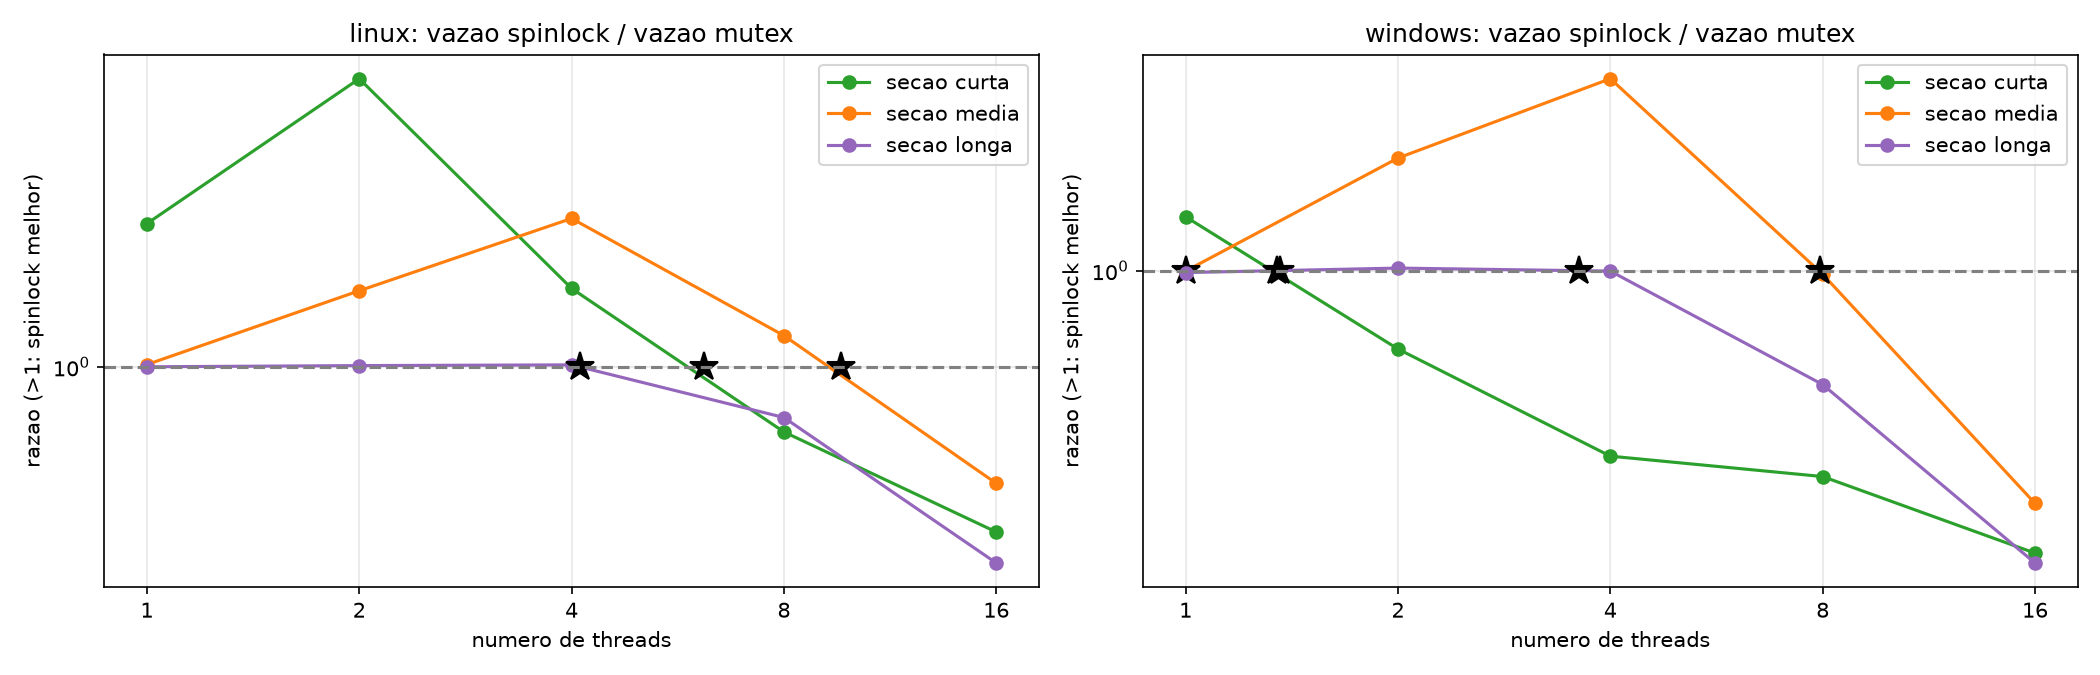
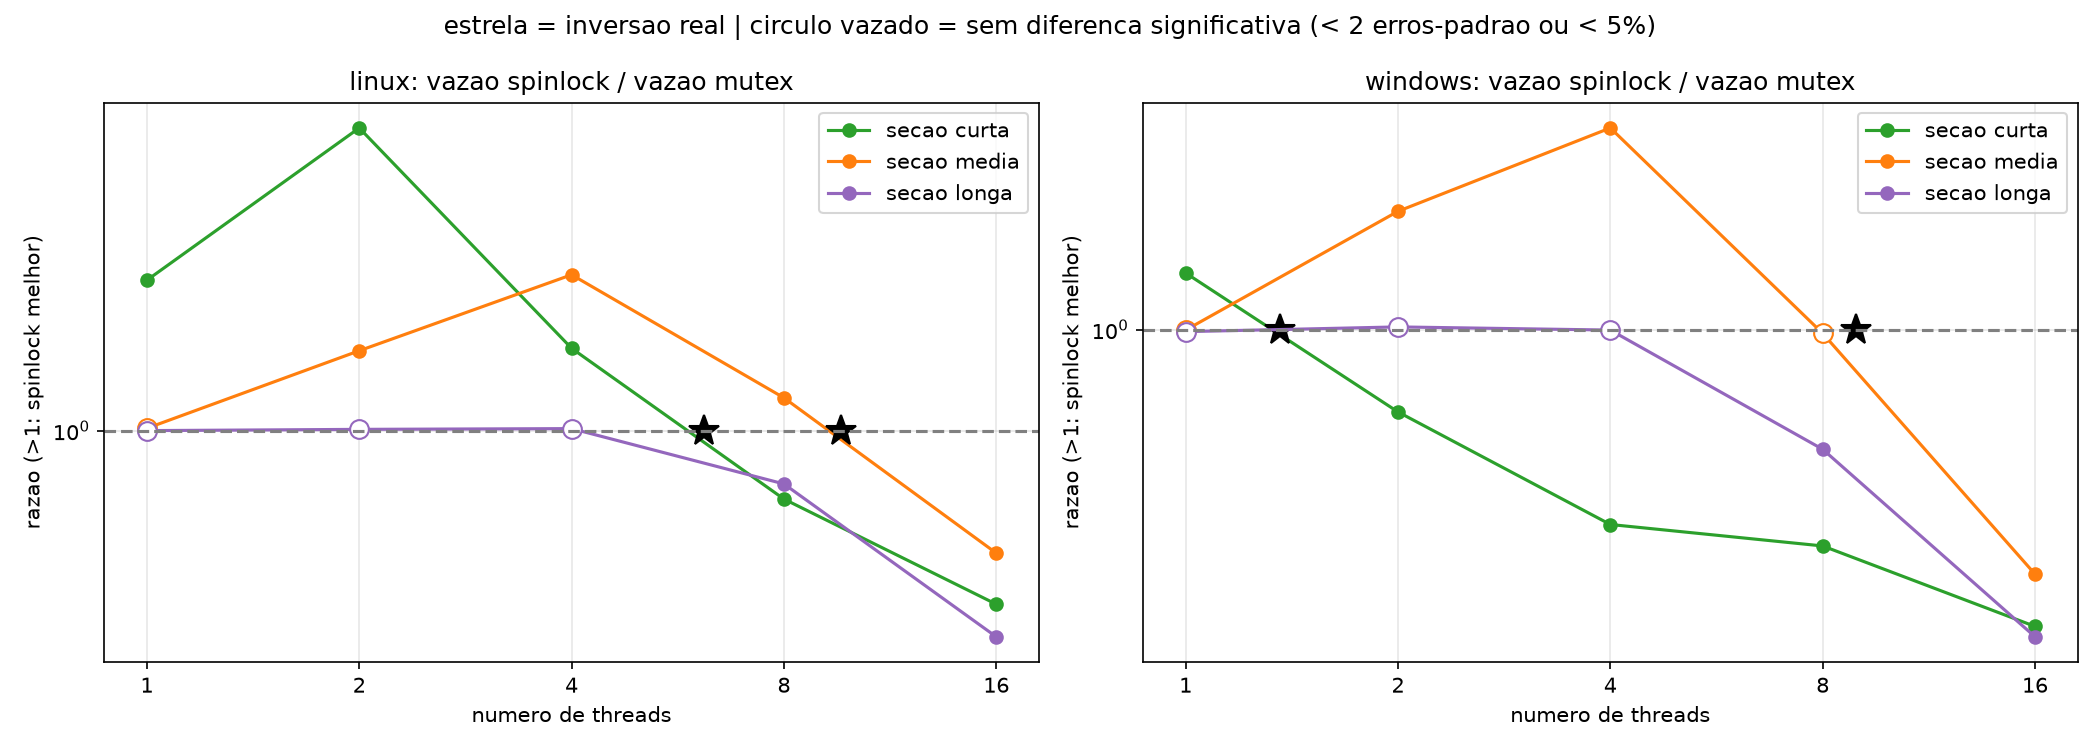
atualização da geração de gráficos e cruzamento de dados.

diff --git a/experimentos/gerar_graficos.py b/experimentos/gerar_graficos.py
@@ -92,50 +92,80 @@ def grade(resumo, col, dp, ylabel, titulo, arq):
     plt.close(fig)
 
 
+Z_LIMITE = 2.0       # diferenca maior que 2 erros-padrao => estatisticamente real (~95%)
+EFEITO_MIN = 0.05    # e maior que 5% => relevante na pratica (evita marcar diferencas minimas)
+
+
 def cruzamentos(resumo):
-    """Razao vazao(spinlock)/vazao(mutex) por nº de threads; cruzamento = razao passa por 1."""
-    linhas, razoes = [], {}
+    """Compara spinlock x mutex em cada N.
+
+    Regime por N: S = spinlock melhor, M = mutex melhor, = empate (diferenca das
+    medias menor que 2 erros-padrao ou menor que 5%: indistinguivel do ruido).
+    Inversao = troca de regime entre dois pontos com diferenca significativa;
+    o ponto de cruzamento e interpolado (escala log2 de N) entre esses dois pontos.
+    """
+    linhas, info = [], {}
     for pl in sorted(resumo.plataforma.unique()):
         for sec in SECOES:
             sel = resumo[(resumo.plataforma == pl) & (resumo.secao == sec)]
-            m = sel[sel.primitiva == "mutex"].set_index("threads")["vazao_media"]
-            s = sel[sel.primitiva == "spinlock"].set_index("threads")["vazao_media"]
-            razao = (s / m).dropna().sort_index()
-            razoes[(pl, sec)] = razao
-            x = np.log2(razao.index.values.astype(float))
-            y = razao.values - 1.0
-            cruz = []
-            for k in range(len(x) - 1):
-                if y[k] * y[k + 1] < 0:
-                    t = y[k] / (y[k] - y[k + 1])
-                    cruz.append(2 ** (x[k] + t * (x[k + 1] - x[k])))
+            m = sel[sel.primitiva == "mutex"].set_index("threads")
+            s = sel[sel.primitiva == "spinlock"].set_index("threads")
+            ns = sorted(set(m.index) & set(s.index))
+            razao, regime = [], []
+            for n in ns:
+                dif = s.loc[n, "vazao_media"] - m.loc[n, "vazao_media"]
+                ep = np.sqrt(s.loc[n, "vazao_dp"] ** 2 / s.loc[n, "n"]
+                             + m.loc[n, "vazao_dp"] ** 2 / m.loc[n, "n"])
+                z = dif / ep if ep > 0 else 0.0
+                razao.append(float(s.loc[n, "vazao_media"] / m.loc[n, "vazao_media"]))
+                rel = razao[-1] - 1.0
+                regime.append("S" if z > Z_LIMITE and rel > EFEITO_MIN
+                              else "M" if z < -Z_LIMITE and rel < -EFEITO_MIN else "=")
+            sig = [k for k, g in enumerate(regime) if g != "="]
+            cruz, trechos = [], []
+            for a, b in zip(sig, sig[1:]):
+                if regime[a] != regime[b]:
+                    xa, xb = np.log2(ns[a]), np.log2(ns[b])
+                    ya, yb = razao[a] - 1.0, razao[b] - 1.0
+                    t = ya / (ya - yb)
+                    cruz.append(2 ** (xa + t * (xb - xa)))
+                    trechos.append(f"{ns[a]}-{ns[b]}")
+            perde = next((ns[k] for k in range(len(ns))
+                          if regime[k] == "M" and "S" not in regime[k:]), None)
+            info[(pl, sec)] = (ns, razao, regime, cruz)
             linhas.append({"plataforma": pl, "secao": sec,
+                           "regime_por_N": " ".join(f"{n}:{g}" for n, g in zip(ns, regime)),
+                           "inversao_entre_N": ";".join(trechos) or "nenhuma",
                            "cruzamento_threads": ";".join(f"{c:.2f}" for c in cruz) or "nenhum",
-                           "razao_1thread": round(float(razao.get(1, np.nan)), 3),
-                           "razao_16threads": round(float(razao.get(16, np.nan)), 3)})
-    return pd.DataFrame(linhas), razoes
+                           "spinlock_perde_a_partir_de_N": perde if perde else "nunca",
+                           "razao_1thread": round(razao[0], 3),
+                           "razao_16threads": round(razao[-1], 3)})
+    return pd.DataFrame(linhas), info
 
 
-def grafico_cruzamento(razoes):
-    plats = sorted({pl for pl, _ in razoes})
-    fig, axs = plt.subplots(1, len(plats), figsize=(7 * len(plats), 4.5), squeeze=False)
+def grafico_cruzamento(info):
+    plats = sorted({pl for pl, _ in info})
+    fig, axs = plt.subplots(1, len(plats), figsize=(7 * len(plats), 5), squeeze=False)
     cores = {"curta": "tab:green", "media": "tab:orange", "longa": "tab:purple"}
     for i, pl in enumerate(plats):
         ax = axs[0][i]
         for sec in SECOES:
-            r = razoes[(pl, sec)]
-            ax.plot(r.index, r.values, marker="o", label=f"secao {sec}", color=cores[sec])
-            x = np.log2(r.index.values.astype(float)); y = r.values - 1.0
-            for k in range(len(x) - 1):
-                if y[k] * y[k + 1] < 0:
-                    t = y[k] / (y[k] - y[k + 1])
-                    ax.plot(2 ** (x[k] + t * (x[k + 1] - x[k])), 1.0, "k*", markersize=14)
+            ns, razao, regime, cruz = info[(pl, sec)]
+            ax.plot(ns, razao, marker="o", label=f"secao {sec}", color=cores[sec])
+            for n, r, g in zip(ns, razao, regime):
+                if g == "=":
+                    ax.plot(n, r, "o", markersize=9, markerfacecolor="white",
+                            markeredgecolor=cores[sec])
+            for c in cruz:
+                ax.plot(c, 1.0, "k*", markersize=15)
         ax.axhline(1.0, color="gray", linestyle="--")
         ax.set_yscale("log")
         ax.set_title(f"{pl}: vazao spinlock / vazao mutex")
         ax.set_ylabel("razao (>1: spinlock melhor)")
         eixo_threads(ax)
         ax.legend()
+    fig.suptitle("estrela = inversao real | circulo vazado = sem diferenca significativa "
+                 "(< 2 erros-padrao ou < 5%)")
     fig.tight_layout()
     fig.savefig(SAIDA / "grafico2_cruzamento.png", dpi=150)
     plt.close(fig)
@@ -150,10 +180,10 @@ def main():
           "Vazao x numero de threads", "grafico1_vazao.png")
     grade(resumo, "tempo_medio", "tempo_dp", "tempo total (s)",
           "Tempo total x numero de threads", "grafico3_tempo.png")
-    tab, razoes = cruzamentos(resumo)
+    tab, info = cruzamentos(resumo)
     tab.to_csv(SAIDA / "cruzamentos.csv", index=False)
-    grafico_cruzamento(razoes)
-    print("\nCruzamentos (estrela = razao passa por 1):")
+    grafico_cruzamento(info)
+    print("\nInversoes spinlock x mutex (S=spinlock melhor, M=mutex melhor, ==empate):")
     print(tab.to_string(index=False))
     print("\nArquivos gerados em", SAIDA)
 
